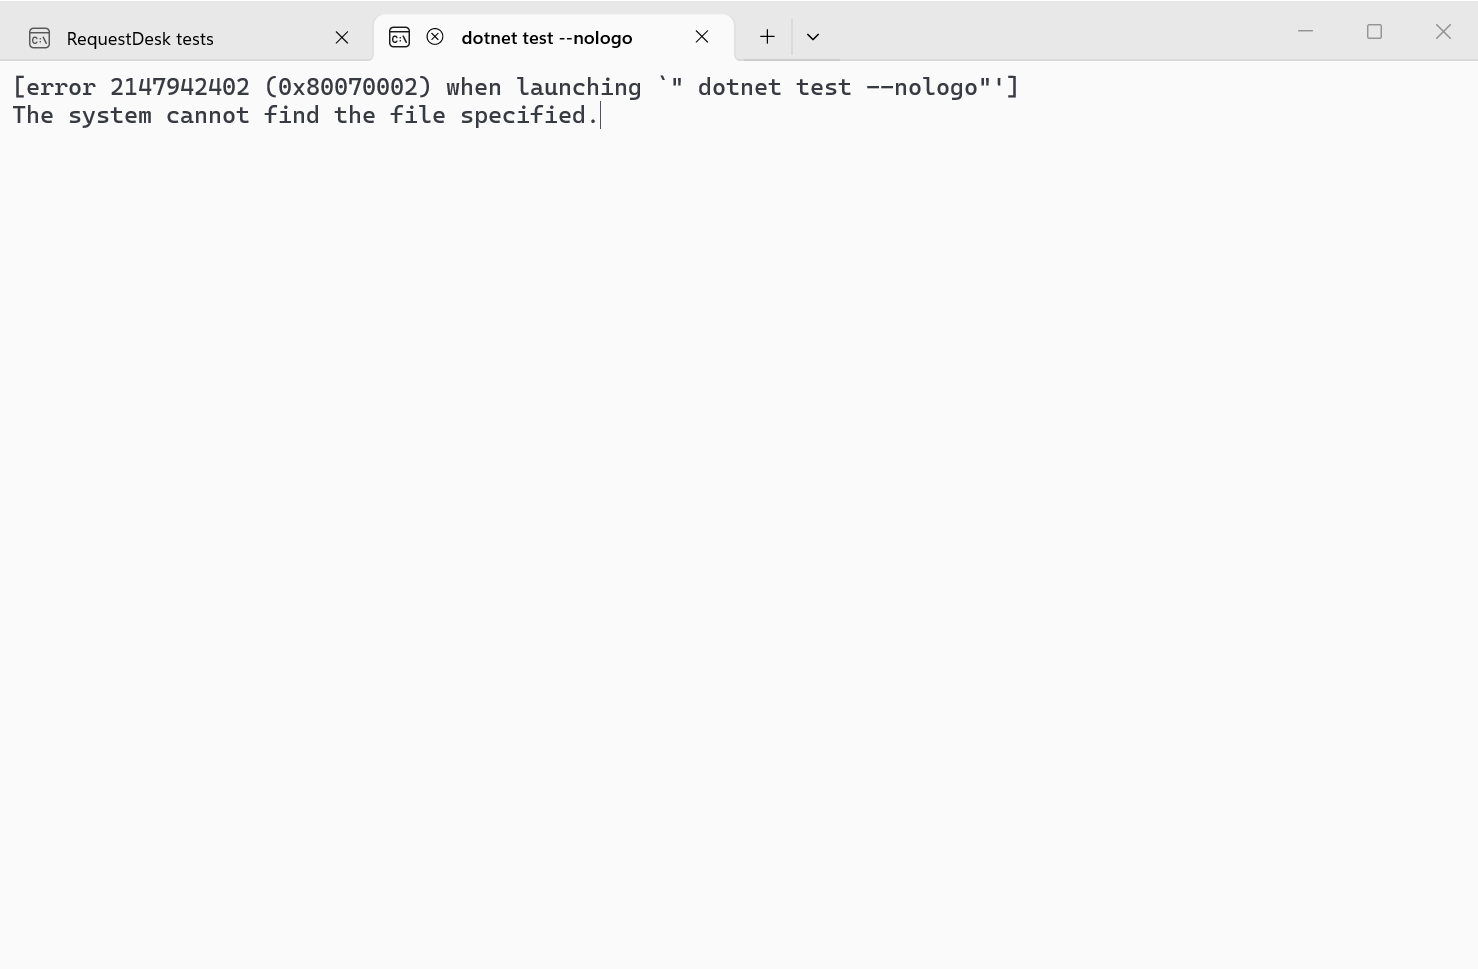
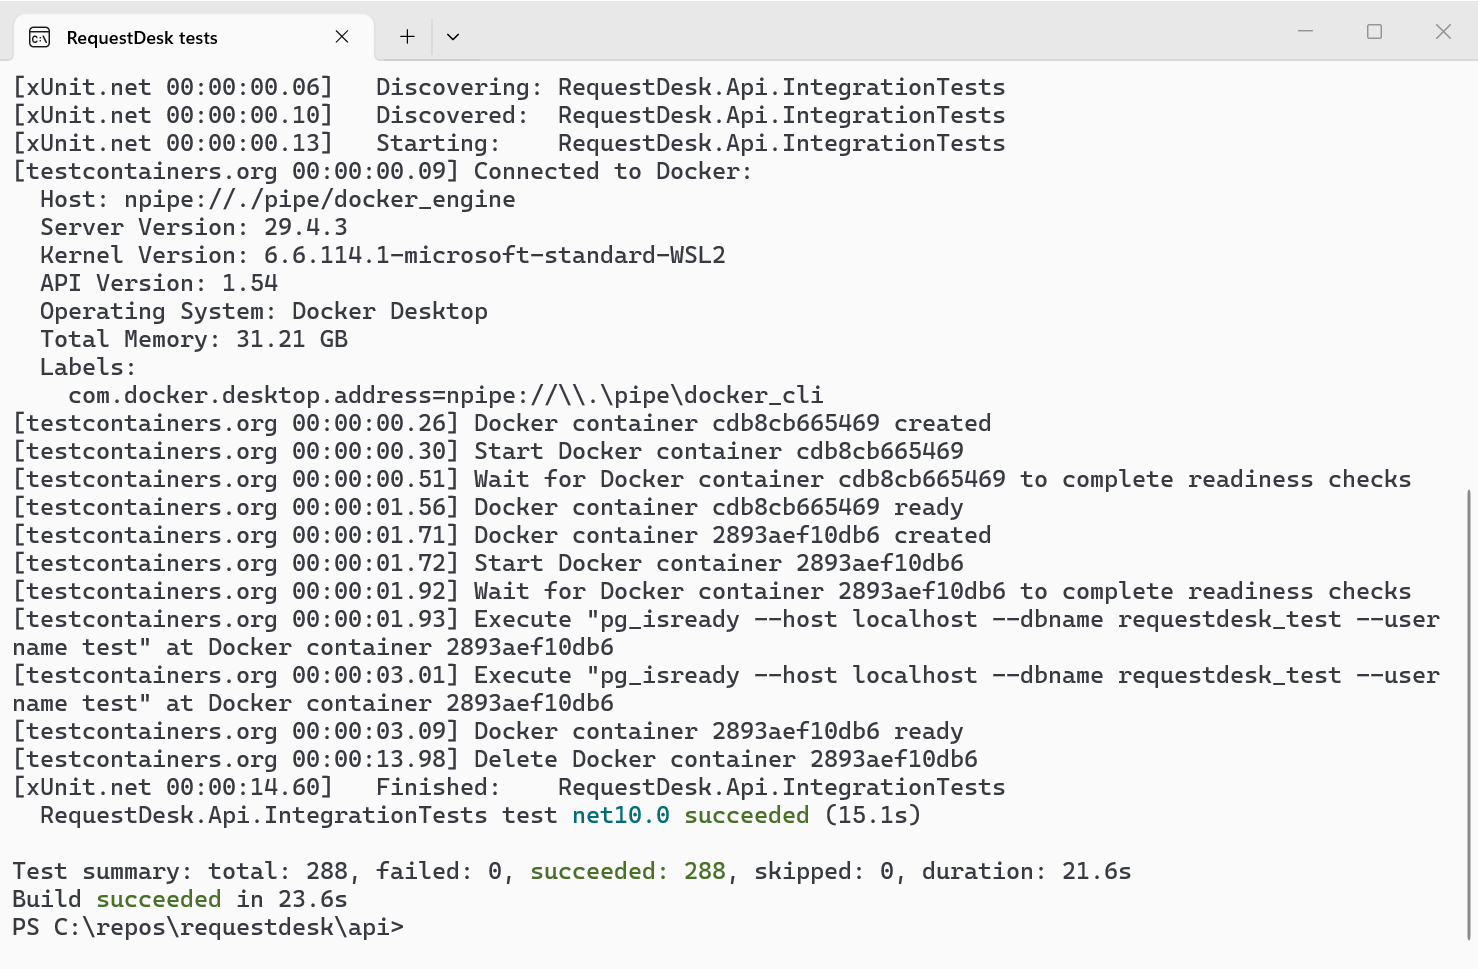
Quieter integration test logs, terminal capture, workflow housekeeping
- Integration test host logs only errors; the append-only tests refuse
  statements on purpose and that is not news
- README test-run screenshot from a real terminal
- Bump setup-node and upload-artifact off Node 20
- Drop the GitHub Actions layer cache from the image publish job, which
  failed on it with a not_found writing a layer blob

diff --git a/api/tests/RequestDesk.Api.IntegrationTests/ApiFactory.cs b/api/tests/RequestDesk.Api.IntegrationTests/ApiFactory.cs
@@ -69,7 +69,13 @@ public sealed class ApiFactory : WebApplicationFactory<Program>, IAsyncLifetime
         builder.UseSetting("Demo:Password", DemoPassword);
         builder.UseSetting("Storage:Root", _storageRoot);
         builder.UseSetting("RateLimiting:AuthPermitPerMinute", "100000");
+
+        // Quiet by default. The append-only tests make the database refuse statements on purpose,
+        // and the test server has no body-size feature; neither is news worth a line in the test log.
         builder.UseSetting("Logging:LogLevel:Default", "Warning");
+        builder.UseSetting("Logging:LogLevel:Microsoft.AspNetCore", "Error");
+        builder.UseSetting("Logging:LogLevel:Microsoft.EntityFrameworkCore.Database.Command", "Critical");
+        builder.UseSetting("Logging:LogLevel:RequestDesk", "Error");
     }
 
     /// <summary>A fresh scope for tests that need to look at the database directly.</summary>
